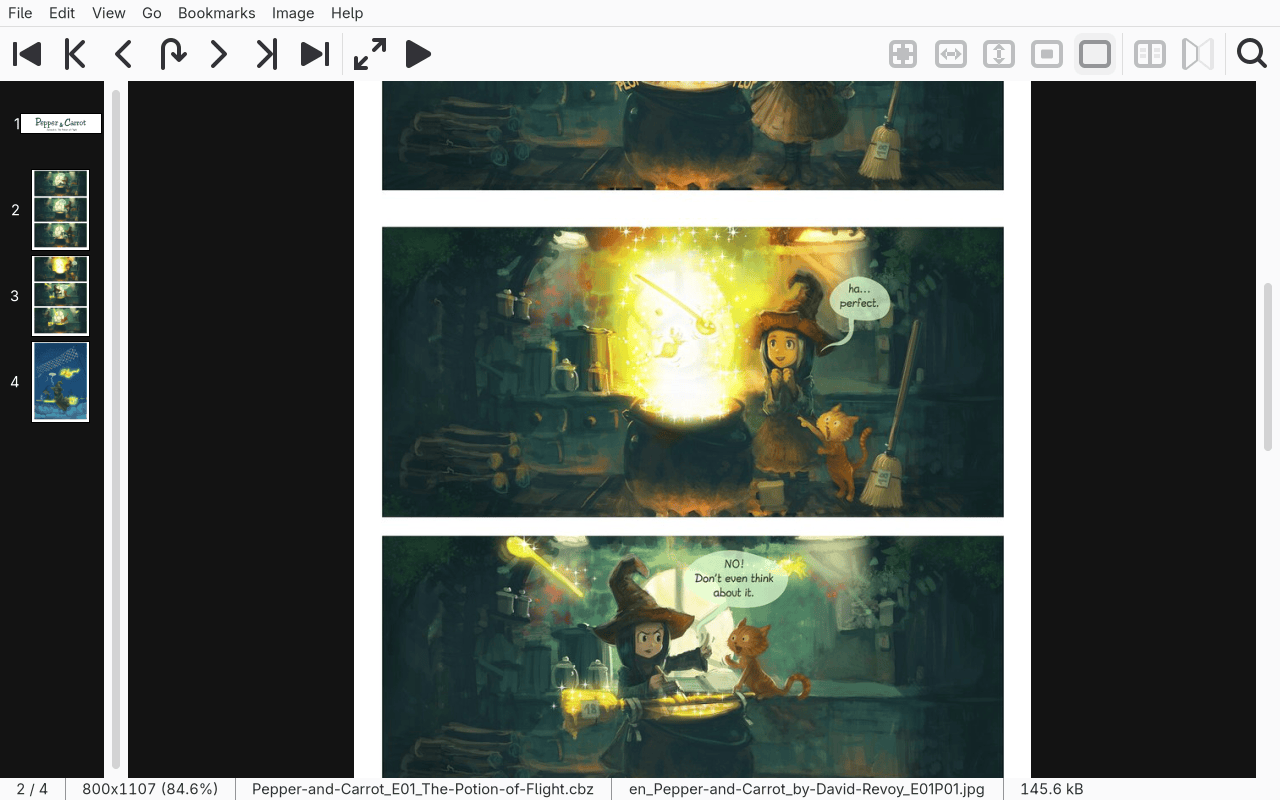
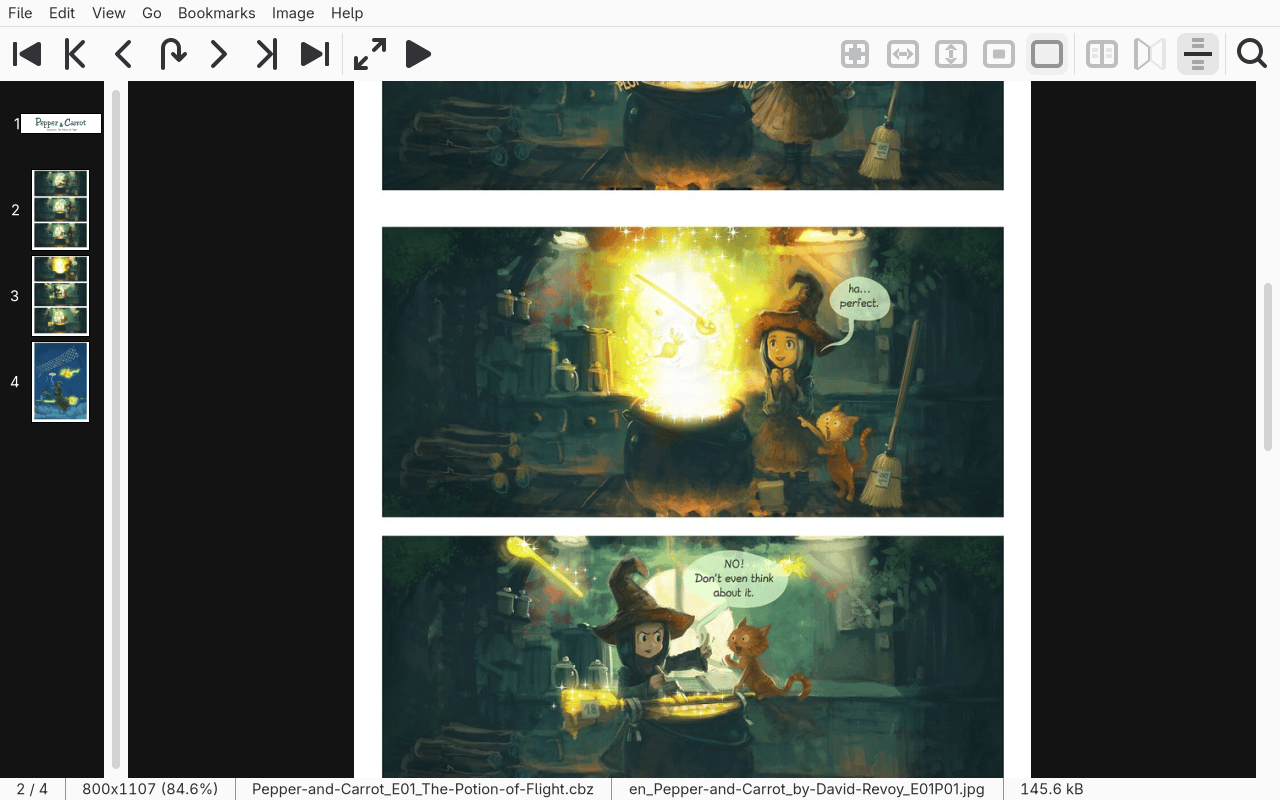
feat: Continuous mode was the one page layout without a tool bar button
The tool bar has a button for each fit mode, for double page mode and
for manga mode; continuous mode, the V key and View > Continuous mode,
had none, since the action carried no icon. It now has Adwaita's
view-continuous-symbolic, the theme's own icon for a document read as
one strip (as view-dual-symbolic, which double page mode uses, is the
theme's), and its button stands after manga mode. Like the others it is
a toggle and shows pressed while the mode is on.

The two screenshots under docs/images show the tool bar, and are taken
again with the button (main window 359,578 bytes, continuous mode
246,020, after pngquant --speed 1).

Two tests in test_main_window.py: the tool bar has a button for each of
the three page layouts, and the icon is in the icon theme; the first
fails on the old tool bar. Gates: 4347 passed, 12 xfailed; flake8
silent; mypy no issues.

Changed region(s): [[0.7812, 0.0312, 0.9375, 0.0938], [0.6562, 0.0312, 0.75, 0.0938]]

diff --git a/mcomix/ui.py b/mcomix/ui.py
@@ -407,7 +407,7 @@ _TOOLBAR = ('previous_archive', 'first_page', 'previous_page', 'go_to',
             'fullscreen', 'slideshow', 'expander',
             'best_fit_mode', 'fit_width_mode', 'fit_height_mode',
             'fit_size_mode', 'fit_manual_mode', None,
-            'double_page', 'manga_mode', None,
+            'double_page', 'manga_mode', 'continuous_mode', None,
             'lens')
 
 
@@ -546,7 +546,7 @@ class MainUI:
             _Entry('thumbnails', None, _('Th_umbnails'), None, window.change_thumbnails_visibility),
             _Entry('hide_all', None, _('H_ide all'), None, window.change_hide_all),
             _Entry('manga_mode', 'view-mirror-symbolic', _('_Manga mode'), _('Manga mode'), window.change_manga_mode),
-            _Entry('continuous_mode', None, _('_Continuous mode'), _('Continuous mode'), window.change_continuous_mode),
+            _Entry('continuous_mode', 'view-continuous-symbolic', _('_Continuous mode'), _('Continuous mode'), window.change_continuous_mode),
             _Entry('invert_scroll', 'edit-undo', _('Invert smart scroll'), _('Invert smart scrolling direction.'), window.change_invert_scroll),
             _Entry('keep_transformation', None, _('_Keep transformation'), _('Keeps the currently selected transformation for the next pages.'),
                    window.change_keep_transformation),

diff --git a/test/test_main_window.py b/test/test_main_window.py
@@ -168,6 +168,19 @@ class MainWindowTest(MComixTest):
             self.assertIsNotNone(button.get_action_name(),
                                  'a tool bar button does nothing')
 
+    def test_every_page_layout_has_its_tool_bar_button(self):
+        """Double page and manga mode had one, continuous mode none."""
+        actions = {button.get_action_name()
+                   for button in self._children(self.window.toolbar)
+                   if isinstance(button, Gtk.Button)}
+        for name in ('double_page', 'manga_mode', 'continuous_mode'):
+            self.assertIn(ui.Actions.PREFIX + '.' + ui._gio_name(name),
+                          actions)
+
+    def test_the_continuous_mode_icon_is_in_the_icon_theme(self):
+        theme = Gtk.IconTheme.get_for_display(self.window.get_display())
+        self.assertTrue(theme.has_icon('view-continuous-symbolic'))
+
     def test_the_slideshow_button_keeps_its_icon_while_it_changes_it(self):
         """Starting and stopping a slideshow put an icon of the default
         size, full colour rather than symbolic, in place of the tool
